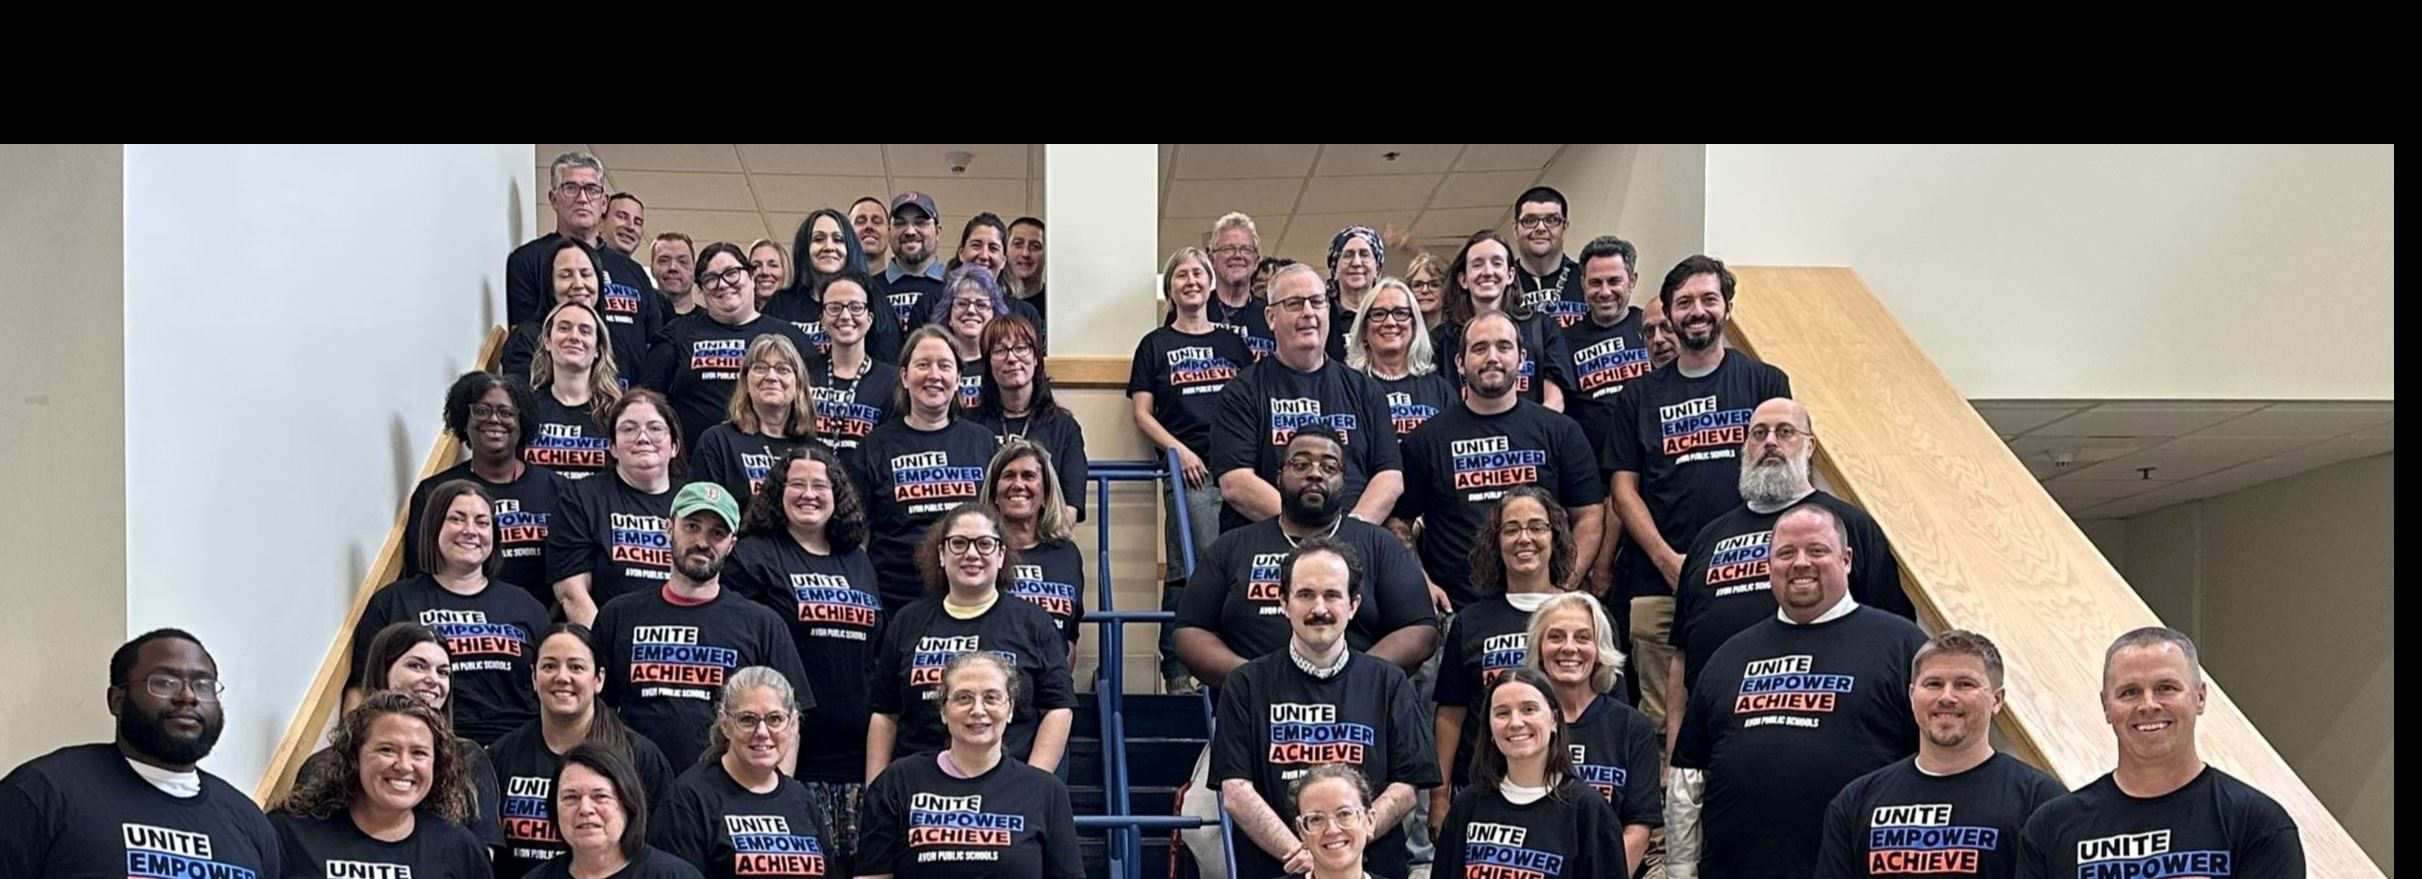
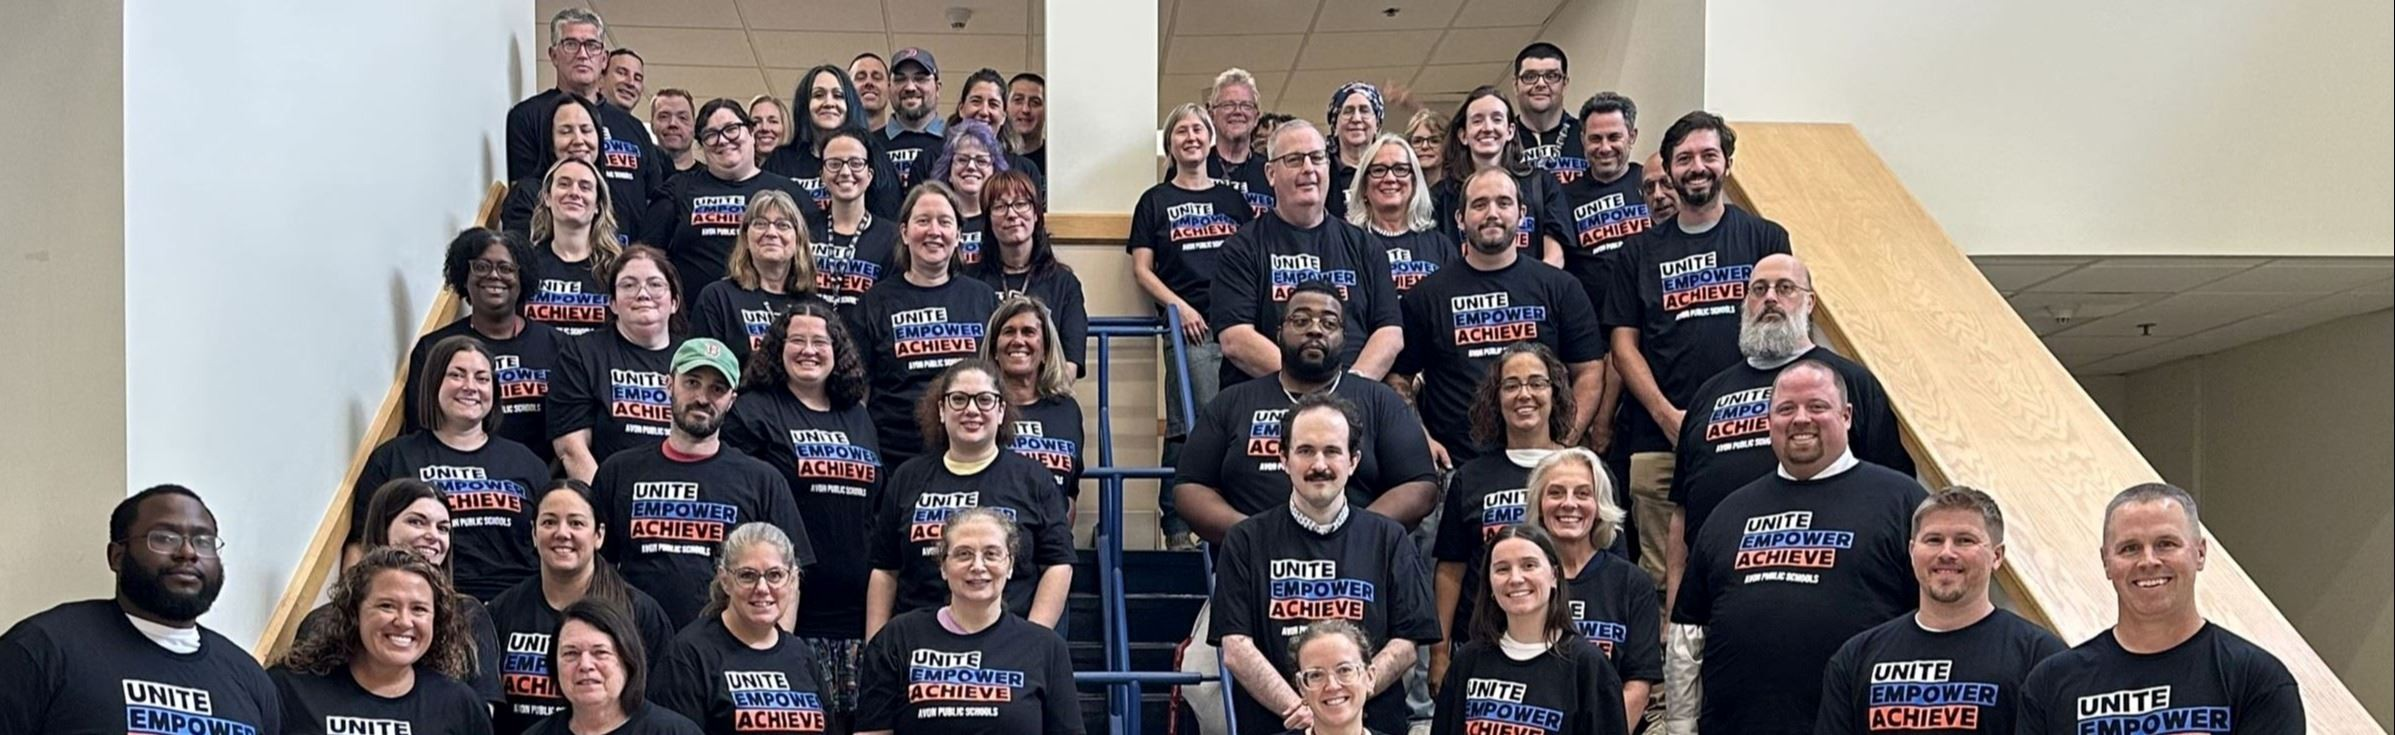
Final Career Day 2026 product

diff --git a/2026/amhs-web/src/routes/index.tsx b/2026/amhs-web/src/routes/index.tsx
@@ -5,12 +5,135 @@ export const Route = createFileRoute('/')({
   component: Home,
 })
 
+// Home.tsx
 function Home() {
   return (
     <div className="w-full">
-      <div className="text-xl font-bold text-black">
-        Welcome to Avon Middle High School
-      </div>
+      {/* Hero Banner */}
+      <section className="relative w-full h-[600px] overflow-hidden">
+        {/* Background Image */}
+        <div className="absolute inset-0">
+          <img
+            src="/amhs-teachers.jpg"
+            alt="Avon Middle High School Staff - Unite, Empower, Achieve"
+            className="w-full h-full object-cover object-center"
+          />
+          {/* Overlay for better text readability */}
+          <div className="absolute inset-0 bg-gradient-to-r from-black/70 via-black/50 to-transparent"></div>
+        </div>
+
+        {/* Hero Content */}
+        <div className="relative h-full max-w-7xl mx-auto px-4 sm:px-6 lg:px-8 flex items-center">
+          <div className="max-w-2xl">
+            <h1 className="text-5xl md:text-6xl font-bold text-white mb-6">
+              Welcome to
+              <span className="block text-orange-500 mt-2">
+                Avon Middle High School
+              </span>
+            </h1>
+            <p className="text-xl md:text-2xl text-white font-semibold mb-4">
+              Unite. Empower. Achieve.
+            </p>
+            <p className="text-lg text-gray-200 mb-8">
+              Building tomorrow's leaders through Panther PRIDE: Persistence, Respect, Integrity, Diversity, and Empowerment.
+            </p>
+            <div className="flex flex-wrap gap-4">
+              <button className="px-8 py-3 bg-orange-600 text-white font-semibold rounded-lg hover:bg-orange-700 transition-colors duration-200 shadow-lg">
+                Learn More
+              </button>
+              <button className="px-8 py-3 bg-white text-black font-semibold rounded-lg hover:bg-gray-100 transition-colors duration-200 shadow-lg">
+                Contact Us
+              </button>
+            </div>
+          </div>
+        </div>
+      </section>
+
+      {/* Quick Links Section */}
+      <section className="py-16 bg-gray-50">
+        <div className="max-w-7xl mx-auto px-4 sm:px-6 lg:px-8">
+          <h2 className="text-3xl font-bold text-center text-black mb-12">
+            Quick Access
+          </h2>
+          <div className="grid grid-cols-1 md:grid-cols-3 gap-8">
+            {/* Card 1 */}
+            <div className="bg-white rounded-lg shadow-md p-6 hover:shadow-xl transition-shadow duration-200 border-t-4 border-orange-600">
+              <div className="text-orange-600 mb-4">
+                <svg className="w-12 h-12" fill="none" stroke="currentColor" viewBox="0 0 24 24">
+                  <path strokeLinecap="round" strokeLinejoin="round" strokeWidth={2} d="M12 6.253v13m0-13C10.832 5.477 9.246 5 7.5 5S4.168 5.477 3 6.253v13C4.168 18.477 5.754 18 7.5 18s3.332.477 4.5 1.253m0-13C13.168 5.477 14.754 5 16.5 5c1.747 0 3.332.477 4.5 1.253v13C19.832 18.477 18.247 18 16.5 18c-1.746 0-3.332.477-4.5 1.253" />
+                </svg>
+              </div>
+              <h3 className="text-xl font-bold text-black mb-2">Academics</h3>
+              <p className="text-gray-600 mb-4">
+                Explore our comprehensive curriculum and educational programs.
+              </p>
+              <a href="/academics" className="text-orange-600 font-semibold hover:text-orange-700">
+                Learn More →
+              </a>
+            </div>
+
+            {/* Card 2 */}
+            <div className="bg-white rounded-lg shadow-md p-6 hover:shadow-xl transition-shadow duration-200 border-t-4 border-orange-600">
+              <div className="text-orange-600 mb-4">
+                <svg className="w-12 h-12" fill="none" stroke="currentColor" viewBox="0 0 24 24">
+                  <path strokeLinecap="round" strokeLinejoin="round" strokeWidth={2} d="M13 10V3L4 14h7v7l9-11h-7z" />
+                </svg>
+              </div>
+              <h3 className="text-xl font-bold text-black mb-2">Athletics</h3>
+              <p className="text-gray-600 mb-4">
+                Join our Panthers teams and discover your athletic potential.
+              </p>
+              <a href="/athletics" className="text-orange-600 font-semibold hover:text-orange-700">
+                Learn More →
+              </a>
+            </div>
+
+            {/* Card 3 */}
+            <div className="bg-white rounded-lg shadow-md p-6 hover:shadow-xl transition-shadow duration-200 border-t-4 border-orange-600">
+              <div className="text-orange-600 mb-4">
+                <svg className="w-12 h-12" fill="none" stroke="currentColor" viewBox="0 0 24 24">
+                  <path strokeLinecap="round" strokeLinejoin="round" strokeWidth={2} d="M17 20h5v-2a3 3 0 00-5.356-1.857M17 20H7m10 0v-2c0-.656-.126-1.283-.356-1.857M7 20H2v-2a3 3 0 015.356-1.857M7 20v-2c0-.656.126-1.283.356-1.857m0 0a5.002 5.002 0 019.288 0M15 7a3 3 0 11-6 0 3 3 0 016 0zm6 3a2 2 0 11-4 0 2 2 0 014 0zM7 10a2 2 0 11-4 0 2 2 0 014 0z" />
+                </svg>
+              </div>
+              <h3 className="text-xl font-bold text-black mb-2">Student Life</h3>
+              <p className="text-gray-600 mb-4">
+                Get involved in clubs, activities, and community events.
+              </p>
+              <a href="/students" className="text-orange-600 font-semibold hover:text-orange-700">
+                Learn More →
+              </a>
+            </div>
+          </div>
+        </div>
+      </section>
+
+      {/* Panther PRIDE Section */}
+      <section className="py-16 bg-white">
+        <div className="max-w-7xl mx-auto px-4 sm:px-6 lg:px-8">
+          <div className="text-center mb-12">
+            <h2 className="text-4xl font-bold text-black mb-4">Panther PRIDE</h2>
+            <p className="text-xl text-gray-600">Our Core Values</p>
+          </div>
+          <div className="grid grid-cols-1 md:grid-cols-5 gap-6">
+            {[
+              { letter: 'P', value: 'Persistence', description: 'Never give up on your goals' },
+              { letter: 'R', value: 'Respect', description: 'Honor yourself and others' },
+              { letter: 'I', value: 'Integrity', description: 'Do what is right' },
+              { letter: 'D', value: 'Diversity', description: 'Celebrate our differences' },
+              { letter: 'E', value: 'Empowerment', description: 'Believe in your potential' },
+            ].map((item) => (
+              <div key={item.letter} className="text-center p-6 rounded-lg bg-gray-50 hover:bg-orange-50 transition-colors duration-200">
+                <div className="w-16 h-16 mx-auto mb-4 bg-orange-600 text-white rounded-full flex items-center justify-center text-2xl font-bold">
+                  {item.letter}
+                </div>
+                <h3 className="text-xl font-bold text-black mb-2">{item.value}</h3>
+                <p className="text-sm text-gray-600">{item.description}</p>
+              </div>
+            ))}
+          </div>
+        </div>
+      </section>
     </div>
   )
 }
+

diff --git a/2026/amhs-web/src/routes/__root.tsx b/2026/amhs-web/src/routes/__root.tsx
@@ -14,13 +14,140 @@ export const Route = createRootRoute({
   },
 })
 
-export function RootComponent() {
+function RootComponent() {
+  const navItems = [
+    { name: 'Academics', path: '/academics' },
+    { name: 'Athletics', path: '/athletics' },
+    { name: 'Guidance', path: '/guidance' },
+    { name: 'Students', path: '/students' },
+    { name: 'Parents', path: '/parents' },
+    { name: 'Schools', path: '/schools' },
+  ]
+
   return (
     <div className="min-h-screen bg-white">
+      {/* Navigation Bar */}
+      <nav className="w-full bg-white border-b-2 border-orange-600 shadow-sm">
+        <div className="max-w-7xl mx-auto px-4 sm:px-6 lg:px-8">
+          <div className="flex items-center justify-between h-20">
+            {/* Logo */}
+            <div className="flex-shrink-0">
+              <Link to="/" className="flex items-center">
+                <img
+                  src="/panther-logo.png"
+                  alt="Avon Panthers"
+                  className="h-16 w-16 object-contain"
+                />
+                <div className="ml-3 hidden md:block">
+                  <h1 className="text-xl font-bold text-black">
+                    Avon Middle High School
+                  </h1>
+                  <p className="text-sm text-orange-600 font-semibold">
+                    Unite. Empower. Achieve.
+                  </p>
+                </div>
+              </Link>
+            </div>
+
+            {/* Navigation Menu */}
+            <div className="hidden md:flex items-center space-x-1">
+              {navItems.map((item) => (
+                <Link
+                  key={item.name}
+                  to={item.path}
+                  className="px-4 py-2 text-black font-medium hover:text-orange-600 hover:bg-orange-50 rounded-md transition-colors duration-200"
+                  activeProps={{
+                    className: 'text-orange-600 bg-orange-50',
+                  }}
+                >
+                  {item.name}
+                </Link>
+              ))}
+            </div>
+
+            {/* Mobile menu button */}
+            <div className="md:hidden">
+              <button
+                type="button"
+                className="inline-flex items-center justify-center p-2 rounded-md text-black hover:text-orange-600 hover:bg-orange-50 focus:outline-none focus:ring-2 focus:ring-inset focus:ring-orange-600"
+                aria-expanded="false"
+              >
+                <span className="sr-only">Open main menu</span>
+                <svg
+                  className="h-6 w-6"
+                  xmlns="http://www.w3.org/2000/svg"
+                  fill="none"
+                  viewBox="0 0 24 24"
+                  stroke="currentColor"
+                >
+                  <path
+                    strokeLinecap="round"
+                    strokeLinejoin="round"
+                    strokeWidth={2}
+                    d="M4 6h16M4 12h16M4 18h16"
+                  />
+                </svg>
+              </button>
+            </div>
+          </div>
+        </div>
+
+        {/* Mobile menu */}
+        <div className="md:hidden border-t border-gray-200">
+          <div className="px-2 pt-2 pb-3 space-y-1">
+            {navItems.map((item) => (
+              <Link
+                key={item.name}
+                to={item.path}
+                className="block px-3 py-2 rounded-md text-base font-medium text-black hover:text-orange-600 hover:bg-orange-50"
+                activeProps={{
+                  className: 'text-orange-600 bg-orange-50',
+                }}
+              >
+                {item.name}
+              </Link>
+            ))}
+          </div>
+        </div>
+      </nav>
+
       {/* Main Content */}
       <main className="w-full">
         <Outlet />
       </main>
+
+      {/* Footer */}
+      <footer className="w-full bg-black text-white mt-16">
+        <div className="max-w-7xl mx-auto px-4 sm:px-6 lg:px-8 py-8">
+          <div className="grid grid-cols-1 md:grid-cols-3 gap-8">
+            <div>
+              <h3 className="text-orange-600 font-bold mb-3">Panther PRIDE</h3>
+              <ul className="space-y-1 text-sm">
+                <li>Persistence</li>
+                <li>Respect</li>
+                <li>Integrity</li>
+                <li>Diversity</li>
+                <li>Empowerment</li>
+              </ul>
+            </div>
+            <div>
+              <h3 className="text-orange-600 font-bold mb-3">Contact</h3>
+              <p className="text-sm">
+                Avon Middle High School<br />
+                Avon, Massachusetts
+              </p>
+            </div>
+            <div>
+              <h3 className="text-orange-600 font-bold mb-3">Communities Served</h3>
+              <p className="text-sm">Avon, Brockton, Randolph</p>
+              <p className="text-sm mt-2">Grades 7-12</p>
+            </div>
+          </div>
+          <div className="mt-8 pt-8 border-t border-gray-700 text-center text-sm">
+            <p>&copy; {new Date().getFullYear()} Avon Middle High School. All rights reserved.</p>
+          </div>
+        </div>
+      </footer>
     </div>
-  );
+  )
 }
